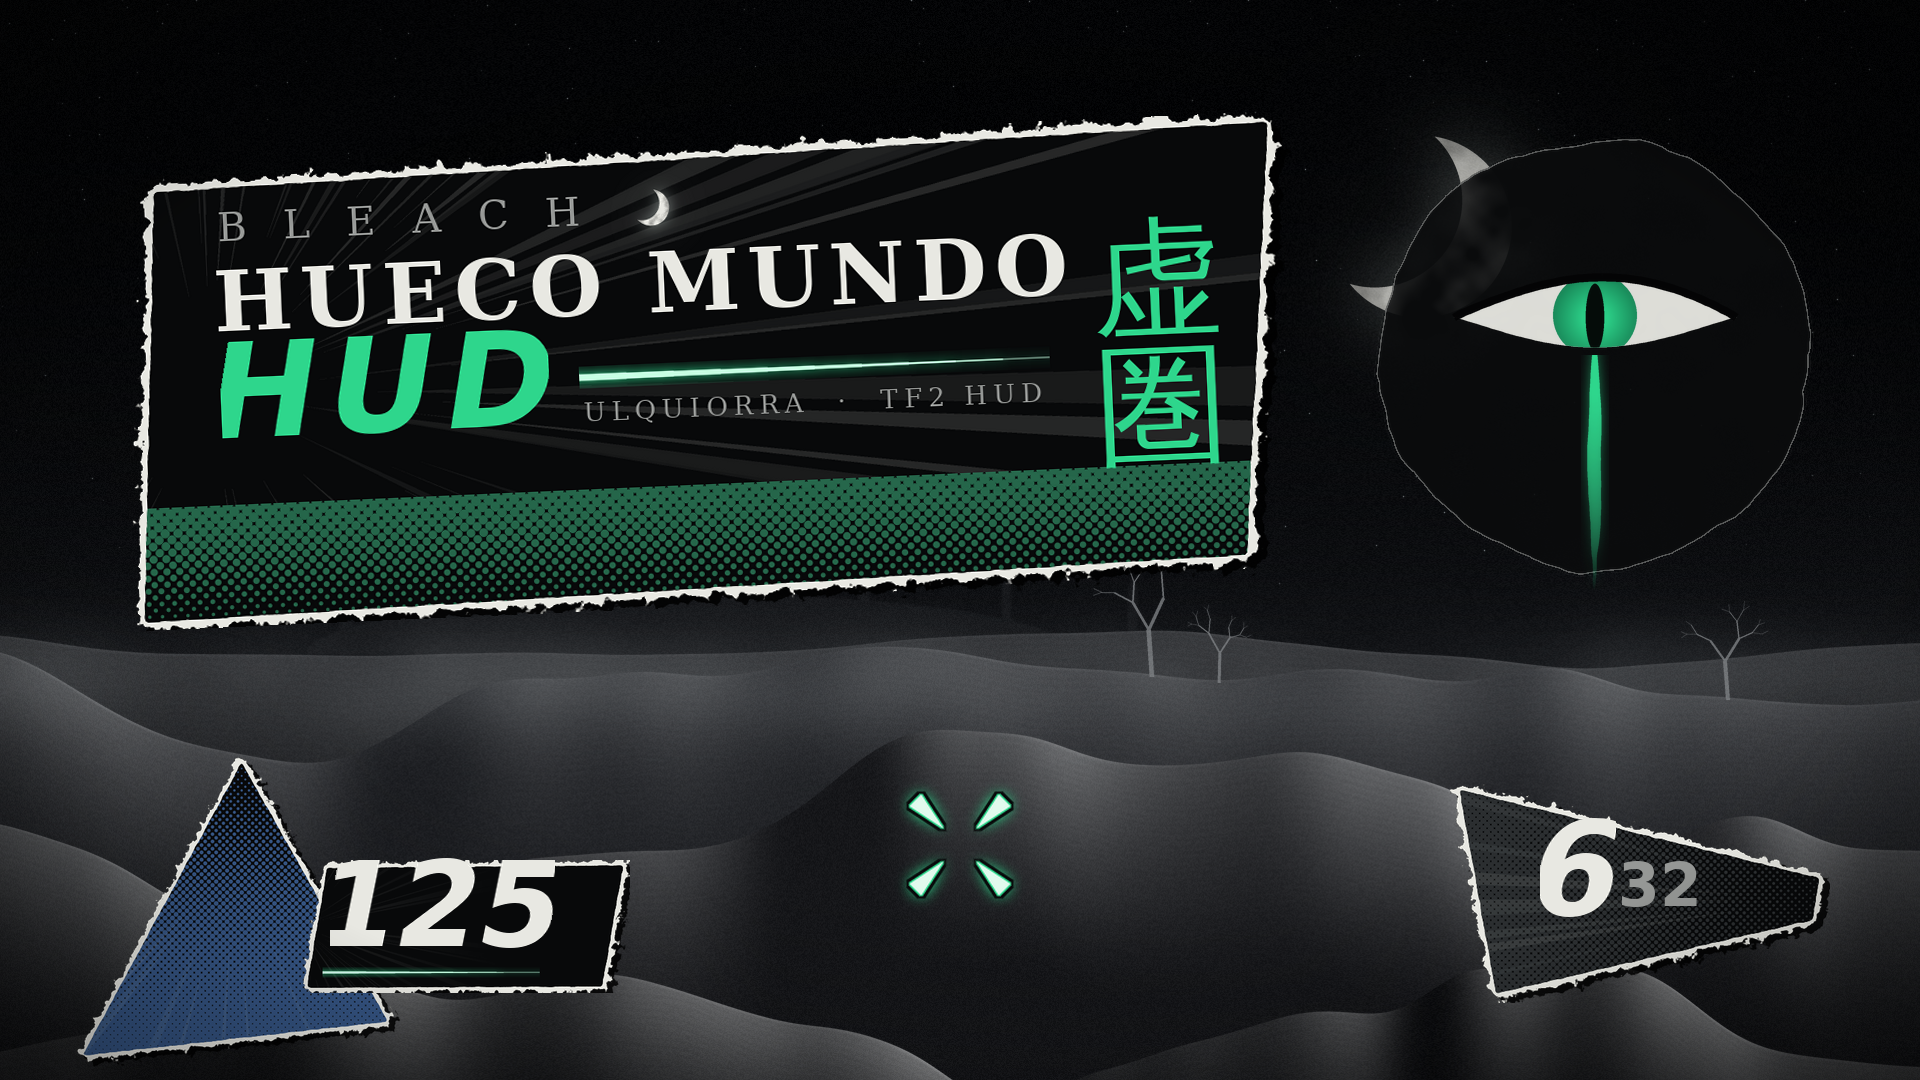
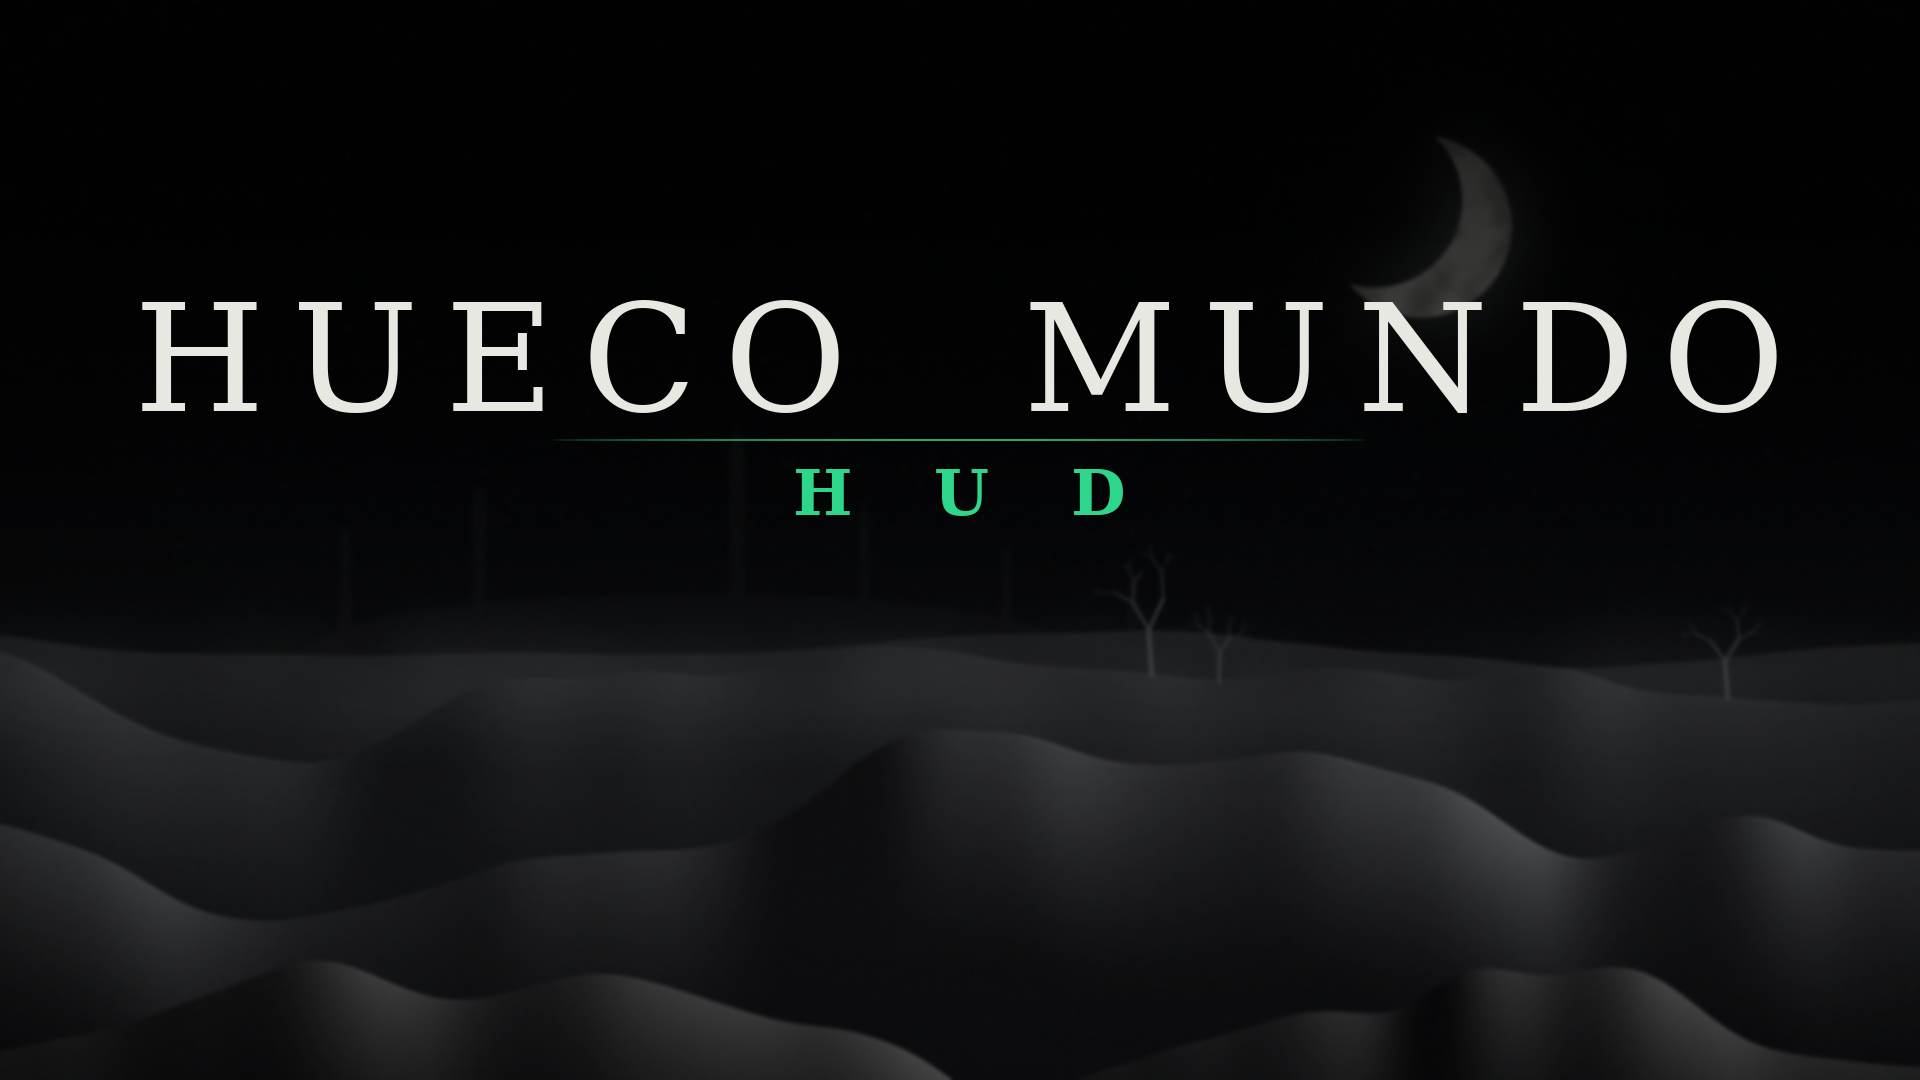
Thumbnail: moon title card
The first thumbnail showed pieces of the HUD and looked busy.
thumbnail.py now draws a plain title card (moon, eye or paper style);
thumbnail.png is the moon one.

Changed region(s): [[0.0, 0.0917, 1.0, 1.0], [0.6875, 0.9167, 0.7188, 0.9778]]

diff --git a/tools/thumbnail.py b/tools/thumbnail.py
@@ -1,103 +1,88 @@
-"""Store / GitHub thumbnail (1920x1080): the Hueco Mundo scene, a torn manga title panel, the in-game HUD pieces.
+"""Store / GitHub thumbnail (1920x1080): a clean title card, no HUD pieces.
 
-    python thumbnail.py [out.png]
+    python thumbnail.py [style] [out.png]      style: moon (default), eye, paper
 """
 import os
 import sys
 
 import numpy as np
-from PIL import Image, ImageDraw, ImageFilter
+from PIL import Image, ImageFilter
 
 import art
 import manga
-from art import BONE, EMERALD, INK, ASH
+from art import BONE, EMERALD, INK
 
 W, H = 1920, 1080
 
 
-def shade(im, alpha):
-    im.alpha_composite(art.solid_with_alpha((0, 0, 0), np.full((im.height, im.width), alpha, np.float32)))
+def fill(color, alpha=1.0):
+    return art.solid_with_alpha(color, np.full((H, W), alpha, np.float32))
 
 
-def fit_text(txt, font, max_w, start, color, **kw):
-    size = start
-    while True:
-        im = art.text_img(txt, art.font(font, size), color, **kw)
-        if im.width <= max_w or size < 20:
-            return im
-        size -= 4
+def centered(im, layer, y, x=None):
+    im.alpha_composite(layer, ((W - layer.width) // 2 if x is None else x, y))
 
 
-def italic(im, k=0.2):
-    return im.transform(im.size, Image.AFFINE, (1, k, -im.height * k / 2, 0, 1, 0), Image.BICUBIC)
+def wordmark(color=BONE, accent=EMERALD, size=150):
+    """HUECO MUNDO in wide-tracked serif, a thin rule, HUD small and spaced below it."""
+    title = art.text_img('HUECO  MUNDO', art.font(art.SERIF, size), color, tracking=int(size * 0.18))
+    hud = art.text_img('H U D', art.font(art.SERIF_B, int(size * 0.42)), accent, tracking=int(size * 0.2))
+    w = max(title.width, hud.width)
+    out = art.rgba((w, title.height + hud.height + 70))
+    out.alpha_composite(title, ((w - title.width) // 2, 0))
+    line = np.zeros((2, int(w * 0.5)), np.float32)
+    line[:] = np.sin(np.linspace(0, np.pi, line.shape[1])) ** 0.6
+    out.alpha_composite(art.solid_with_alpha(accent, line * 0.8), ((w - line.shape[1]) // 2, title.height + 26))
+    out.alpha_composite(hud, ((w - hud.width) // 2, title.height + 56))
+    return out
 
 
-def title_panel():
-    """Torn ink panel, speed lines bursting from the left, BLEACH / HUECO MUNDO in bone serif, HUD in emerald,
-    虚圏 down the right edge."""
-    w, h = 1180, 470
-    pts = [(40, 30), (w - 20, 8), (w - 60, h - 26), (12, h - 6)]
-    content = art.rgba((w, h), INK, 238)
-    content.alpha_composite(manga.speed_lines((w, h), 90, h // 2, n=110, seed=61, alpha=0.14, inner=0.15))
-    tone = manga.tone_fill((w, int(h * 0.26)), 1.0, (40, 110, 80), period=9, vertical=True, lo=1.0, hi=0.3)
-    content.alpha_composite(tone, (0, h - tone.height))
-    card = manga.panel((w, h), pts, 63, content=content)
-
-    x0, text_w = 100, 850
-    small = art.text_img('B L E A C H', art.font(art.SERIF, 40), ASH, tracking=12)
-    card.alpha_composite(small, (x0 + 6, 54))
-    moon = art.crescent(18, glow=True, phase=0.55, tilt=-150)
-    card.alpha_composite(moon, (x0 + 16 + small.width, 54 + small.height // 2 - moon.height // 2))
-    big = fit_text('HUECO MUNDO', art.SERIF_B, text_w, 140, BONE, tracking=8)
-    card.alpha_composite(big, (x0, 112))
-    y = 112 + big.height + 10
-    hud = italic(art.text_img('HUD', art.font('bahnschrift.ttf', 132), EMERALD, tracking=10))
-    card.alpha_composite(hud, (x0, y))
-    card.alpha_composite(manga.rule(w - 80 - 130 - (x0 + hud.width + 30) - 40, 22, thick=7), (x0 + hud.width + 30, y + 40))
-    k = art.vertical_text('虚圏', art.font(art.KANJI, 130), EMERALD, gap=12)
-    kx = w - k.width - 80
-    card.alpha_composite(k, (kx, (h - k.height) // 2 - 10))
-    sx = x0 + hud.width + 34
-    sub = fit_text('ULQUIORRA  ·  TF2 HUD', 'constan.ttf', kx - sx - 30, 34, ASH, tracking=6)
-    card.alpha_composite(sub, (sx, y + 76))
-    return card
-
-
-def hud_pieces(im):
-    """The real in-game pieces, big, bottom corners: model triangle + health band, ammo blade."""
-    shard = manga.shard((56, 90, 140), 411).resize((330, 317), Image.LANCZOS)
-    im.alpha_composite(shard, (70, H - 330))
-    band = manga.hp_band(412).resize((330, 133), Image.LANCZOS)
-    im.alpha_composite(band, (300, H - 220))
-    hp = art.text_img('125', art.font('bahnschrift.ttf', 118), BONE, stroke=0)
-    hp = italic(hp)
-    im.alpha_composite(hp, (330, H - 222))
-    blade = manga.ammo_blade(413).resize((380, 223), Image.LANCZOS)
-    im.alpha_composite(blade, (W - 470, H - 300))
-    clip = art.text_img('6', art.font('bahnschrift.ttf', 130), BONE)
-    clip = italic(clip)
-    im.alpha_composite(clip, (W - 380, H - 262))
-    res = art.text_img('32', art.font('bahnschrift.ttf', 60), ASH)
-    im.alpha_composite(res, (W - 380 + clip.width + 6, H - 262 + clip.height - res.height - 10))
-    hit = manga.hitmarker().resize((150, 150), Image.LANCZOS)
-    im.alpha_composite(hit, (W // 2 - 75, 770))
-
-
-def main(out):
+def moon():
+    """Night over Hueco Mundo: the scene (its crescent moon, the dunes) sunk in black, the wordmark in the sky."""
     im = art.hueco_mundo_scene(W, H, menu_shade=False).convert('RGBA')
-    shade(im, 0.25)
-    eye = art.ulq_eye(470)
-    im.alpha_composite(eye, (W - 560, 120))
-    panel = title_panel()
-    panel = panel.rotate(2.5, resample=Image.BICUBIC, expand=True)
-    im.alpha_composite(panel, (110, 110))
-    hud_pieces(im)
-    vig = np.clip(np.hypot(*np.mgrid[-1:1:H * 1j, -1:1:W * 1j]) - 0.95, 0, 1) * 0.8
-    im.alpha_composite(art.solid_with_alpha((0, 0, 0), vig.astype(np.float32)))
-    im.convert('RGB').save(out, quality=95)
+    im = im.filter(ImageFilter.GaussianBlur(2))
+    im.alpha_composite(fill((0, 0, 0), 0.55))
+    yy = np.linspace(0, 1, H)[:, None].repeat(W, 1).astype(np.float32)
+    im.alpha_composite(art.solid_with_alpha((0, 0, 0), np.clip(1.2 - yy * 1.6, 0, 1) * 0.6))
+    centered(im, wordmark(), 300)
+    return im
+
+
+def eye():
+    """Ink black, Ulquiorra's eye on the left with its emerald tear, the wordmark on the right."""
+    im = fill(INK)
+    yy, xx = np.mgrid[0:H, 0:W].astype(np.float32)
+    glow = np.exp(-(((xx - 480) / 520) ** 2 + ((yy - 540) / 420) ** 2)) * 0.18
+    im.alpha_composite(art.solid_with_alpha((20, 90, 62), glow.astype(np.float32)))
+    e = art.ulq_eye(620)
+    im.alpha_composite(e, (170, (H - e.height) // 2))
+    wm = wordmark(size=92)
+    im.alpha_composite(wm, (860 + (980 - wm.width) // 2, (H - wm.height) // 2))
+    return im
+
+
+def paper():
+    """Bone manga paper with a soft screentone, a huge faint 虚圏 behind, the wordmark in ink."""
+    yy, xx = np.mgrid[0:H, 0:W].astype(np.float32)
+    g = np.clip(1 - np.hypot(xx / W - 0.5, (yy / H - 0.5) * 0.7) * 1.1, 0, 1)
+    tone = manga.screentone(np.clip(0.55 + g * 0.45, 0, 1), period=10, dot_color=(190, 188, 180),
+                            paper=(226, 224, 216))
+    im = Image.fromarray(np.concatenate([tone, np.full((H, W, 1), 255.)], -1).astype(np.uint8), 'RGBA')
+    k = art.text_img('虚圏', art.font(art.KANJI, 700), INK)
+    k.putalpha(Image.fromarray((manga.arr(k.getchannel('A')) * 0.08 * 255).astype(np.uint8)))
+    centered(im, k, (H - k.height) // 2)
+    centered(im, wordmark(color=INK, accent=(20, 150, 98)), 460)
+    return im
+
+
+STYLES = {'moon': moon, 'eye': eye, 'paper': paper}
+
+
+def main(style='moon', out=None):
+    out = out or os.path.join(os.path.dirname(os.path.dirname(os.path.abspath(__file__))), 'thumbnail.png')
+    STYLES[style]().convert('RGB').save(out, quality=95)
     print('thumbnail ->', out)
 
 
 if __name__ == '__main__':
-    main(sys.argv[1] if len(sys.argv) > 1 else os.path.join(os.path.dirname(os.path.dirname(
-        os.path.abspath(__file__))), 'thumbnail.png'))
+    main(*sys.argv[1:3])
